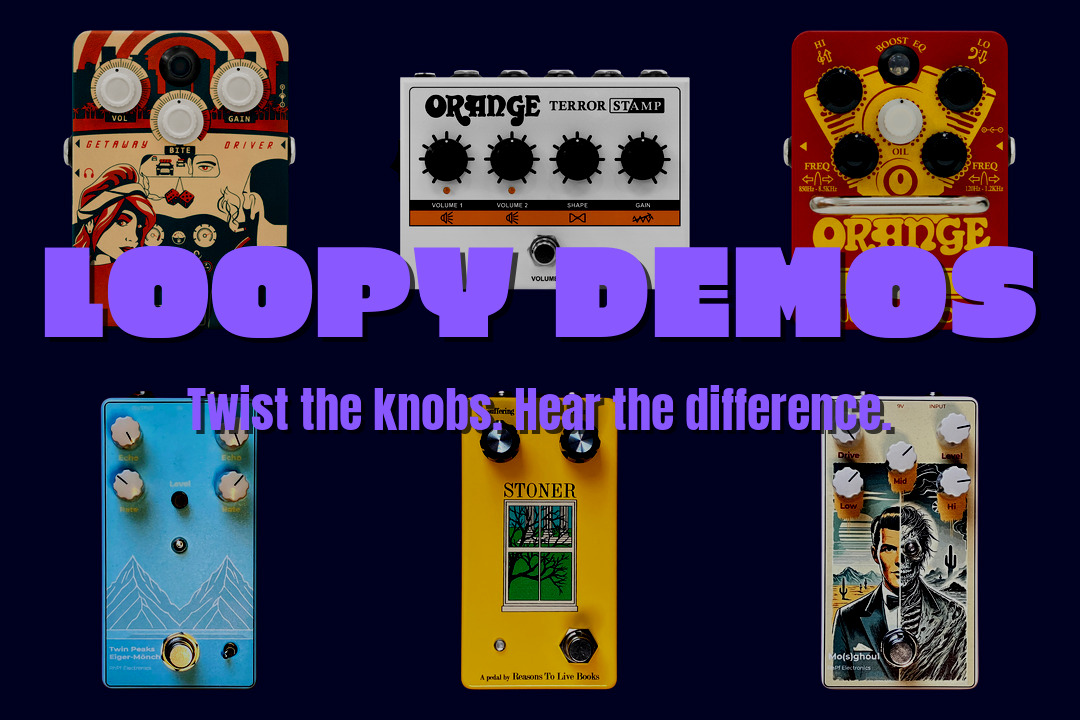
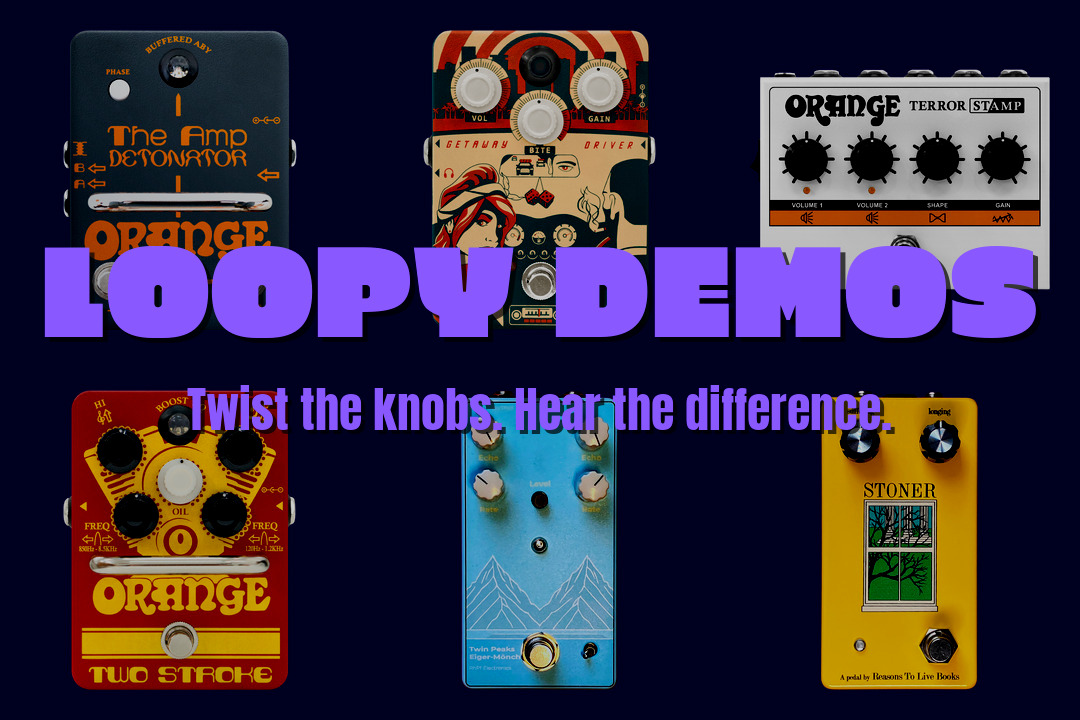
add amp detonator files

diff --git a/src/content/demos/orange-the-amp-detonator.md b/src/content/demos/orange-the-amp-detonator.md
@@ -1,0 +1,25 @@
+---
+builder: Orange
+model: The Amp Detonator
+slug: orange-the-amp-detonator
+type: demo
+isSponsored: true
+date: 2025-07-04
+tags:
+  - aby pedal
+  - buffer
+  - amp switcher
+externalLinks:
+  thomann: ...
+  builderLink: ...
+  sweetwater: ...
+---
+
+Write some copy about the The Amp Detonator by Orange.
+
+### Signal Chain
+
+- Fidelity Guitars Stellarosa Lite II with Lollar Firebird pickups (bridge pickup)
+- The Amp Detonator
+- [Mixwave Benson Chimera Plugin*](https://sweetwater.sjv.io/B0N2PL)
+- A bit of room-like reverb from the [Valhalla Vintage Verb plugin](https://valhalladsp.com/shop/reverb/valhalla-vintage-verb/)
